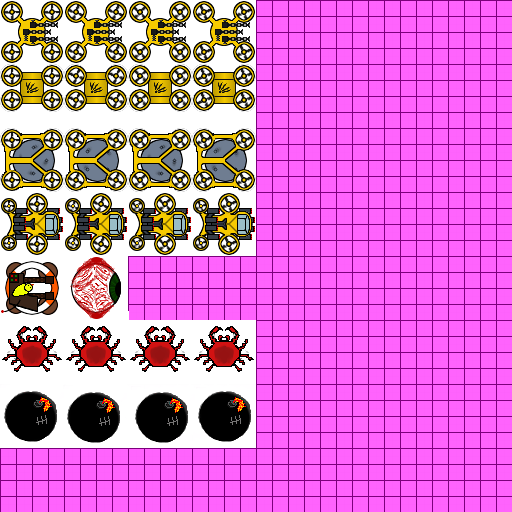
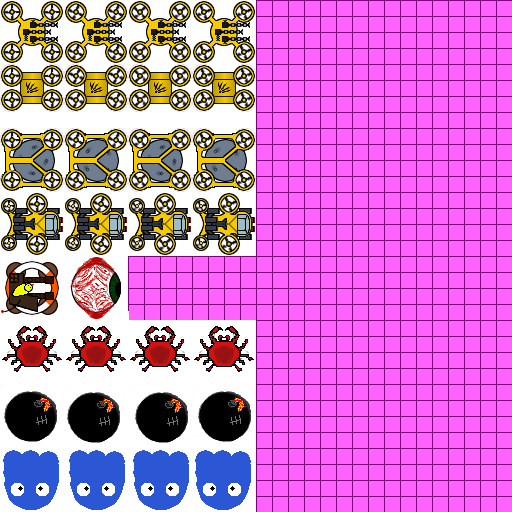
Neuer Gegner hinzugefügt: Laurer (fixes #75)

Changed region(s): [[0.0, 0.875, 0.5, 1.0]]

diff --git a/src/de/_13ducks/spacebatz/server/ai/behaviour/impl/lurker/LurkerLurkBehaviour.java b/src/de/_13ducks/spacebatz/server/ai/behaviour/impl/lurker/LurkerLurkBehaviour.java
@@ -1,0 +1,41 @@
+package de._13ducks.spacebatz.server.ai.behaviour.impl.lurker;
+
+import de._13ducks.spacebatz.server.ai.behaviour.Behaviour;
+import de._13ducks.spacebatz.server.ai.behaviour.impl.GenericLurkBehaviour;
+import de._13ducks.spacebatz.server.data.entities.Enemy;
+import de._13ducks.spacebatz.server.data.entities.Player;
+
+/**
+ * Tarnt sich automatisch.
+ * Enttarnt sich wenn ein Spieler zu nahe kommt und wechselt zum LurkerAttackBehaviour.
+ *
+ * @author michael
+ */
+public class LurkerLurkBehaviour extends GenericLurkBehaviour {
+
+    private boolean visible;
+
+    public LurkerLurkBehaviour(Enemy owner) {
+        super(owner);
+        visible = true;
+    }
+
+    @Override
+    public Behaviour targetSpotted(Player target) {
+        owner.setInvisible(false);
+        return new LurkerAttackBehaviour(owner, target);
+    }
+
+    @Override
+    /**
+     * Tarnen, sobald zum erstenmal Tick() aufgerufen wird.
+     * Das ist nötig, weil dieser Gegner beim Aufruf des Konstruktors noch nicht bei den Clients bekannt ist, und daher dort nicht mit setInvisible() unsichtbar gemacht werden kann.
+     */
+    public Behaviour tick(int gameTick) {
+        if (visible) {
+            visible = false;
+            owner.setInvisible(true);
+        }
+        return super.tick(gameTick);
+    }
+}

diff --git a/src/de/_13ducks/spacebatz/server/ai/behaviour/impl/lurker/LurkerAttackBehaviour.java b/src/de/_13ducks/spacebatz/server/ai/behaviour/impl/lurker/LurkerAttackBehaviour.java
@@ -1,0 +1,41 @@
+package de._13ducks.spacebatz.server.ai.behaviour.impl.lurker;
+
+import de._13ducks.spacebatz.server.ai.behaviour.Behaviour;
+import de._13ducks.spacebatz.server.data.entities.Enemy;
+import de._13ducks.spacebatz.server.data.entities.Player;
+import de._13ducks.spacebatz.util.geo.Distance;
+
+/**
+ * Wartet eine bestimmte Zeit, schießt dann jeden Tick auf das Ziel.
+ *
+ * @author michael
+ */
+class LurkerAttackBehaviour extends Behaviour {
+
+    /**
+     * Zeit zum Angriff in Ticks
+     */
+    private int timeTillAttack = 200;
+    /**
+     * Das Ziel
+     */
+    private Player target;
+
+    public LurkerAttackBehaviour(Enemy owner, Player target) {
+        super(owner);
+        this.target = target;
+    }
+
+    @Override
+    public Behaviour tick(int gameTick) {
+        if (Distance.getDistance(owner.getX(), owner.getY(), target.getX(), target.getY()) > owner.getProperties().getSightrange()) {
+            return new LurkerLurkBehaviour(owner);
+        } else if (timeTillAttack == 0) {
+            owner.getShootAbility().tryUseOnPosition(owner, target.getX() - owner.getX(), target.getY() - owner.getY());
+        } else {
+            timeTillAttack--;
+
+        }
+        return this;
+    }
+}

diff --git a/src/de/_13ducks/spacebatz/server/gamelogic/EnemySpawner.java b/src/de/_13ducks/spacebatz/server/gamelogic/EnemySpawner.java
@@ -13,6 +13,7 @@ package de._13ducks.spacebatz.server.gamelogic;
 import de._13ducks.spacebatz.shared.DefaultSettings;
 import de._13ducks.spacebatz.server.Server;
 import de._13ducks.spacebatz.server.ai.behaviour.impl.kamikaze.KamikazeLurkBehaviour;
+import de._13ducks.spacebatz.server.ai.behaviour.impl.lurker.LurkerLurkBehaviour;
 import de._13ducks.spacebatz.server.data.Zone;
 import de._13ducks.spacebatz.server.data.entities.Enemy;
 import de._13ducks.spacebatz.server.data.entities.Entity;
@@ -278,6 +279,8 @@ public class EnemySpawner {
                     case KAMIKAZE:
                         enem.setBehaviour(new KamikazeLurkBehaviour(enem));
                         break;
+                    case LURKER:
+                        enem.setBehaviour(new LurkerLurkBehaviour(enem));
                 }
                 // GGF Ability setzen:
                 switch (stats.getShootAbility()) {

diff --git a/src/de/_13ducks/spacebatz/shared/EnemyTypes.java b/src/de/_13ducks/spacebatz/shared/EnemyTypes.java
@@ -79,6 +79,17 @@ public class EnemyTypes implements java.io.Serializable {
         kamikaze.setSpeed(0.1f);
         kamikaze.setSightrange(5);
         kamikaze.setEnemylevel(2);
+        
+        EnemyTypeStats lurker = new EnemyTypeStats();
+        enemytypelist.add(lurker);
+        lurker.setBehaviour(EnemyTypeStats.BehaviourType.LURKER);
+        lurker.setShootAbility(EnemyTypeStats.AbilityType.FIREBULLET);
+        lurker.setHealthpoints(12);
+        lurker.setDamage(1);
+        lurker.setPicture(56);
+        lurker.setSpeed(0.1f);
+        lurker.setSightrange(5);
+        lurker.setEnemylevel(2);
 
 
 

diff --git a/src/de/_13ducks/spacebatz/server/ai/behaviour/impl/GenericLurkBehaviour.java b/src/de/_13ducks/spacebatz/server/ai/behaviour/impl/GenericLurkBehaviour.java
@@ -9,7 +9,8 @@ import de._13ducks.spacebatz.server.data.entities.Player;
 import de._13ducks.spacebatz.util.geo.Distance;
 
 /**
- * Waits until shot by a player or sighting a player.
+ * Wartet bis ein Spieler in Sichtweite ist oder auf uns schießt.
+ * Die tick()-Methode *muss* aufgerufen werden, sonst findet keine Überprüfung auf Spieler in Sichtweite statt.
  *
  * @author michael
  */

diff --git a/src/de/_13ducks/spacebatz/shared/EnemyTypeStats.java b/src/de/_13ducks/spacebatz/shared/EnemyTypeStats.java
@@ -56,7 +56,7 @@ public class EnemyTypeStats implements java.io.Serializable {
      */
     public static enum BehaviourType {
 
-        SHOOTER, SPECTATOR, KAMIKAZE
+        SHOOTER, SPECTATOR, KAMIKAZE, LURKER
     };
 
     /**
